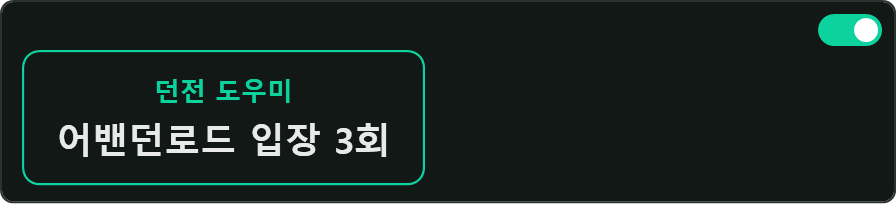
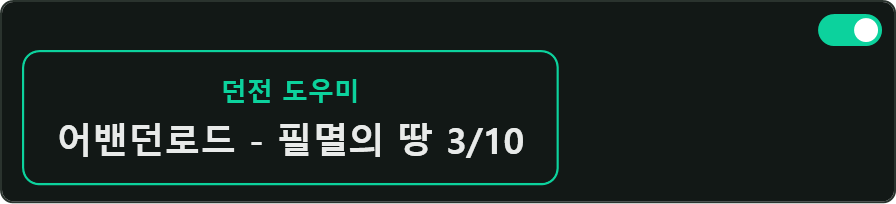
docs: 실제 동작과 다르던 도움말 5종 교정
- 웨이브 종료·반사 패턴·저효율은 팝업이 아니라 소리 알림 — 트리거와 소리 칩으로 표현
- 어밴던 입장 횟수: 실제 창 문구 '어밴던로드 - 필멸의 땅 3/10' 형식으로
- 갈망하는 즐거움: '갈망하는 즐거움 2/20' 형식으로
- 본문도 실제 동작(소리/N·최대 표기, 트리거 문구) 기준으로 수정

Changed region(s): [[0.2812, 0.2353, 0.625, 0.9118], [0.1562, 0.3824, 0.4062, 0.5294]]

diff --git a/Services/Diagnostics/HelpShotRenderer.cs b/Services/Diagnostics/HelpShotRenderer.cs
@@ -181,11 +181,13 @@ namespace TWChatOverlay.Services
             Save(outDir, "exp_cum_on.png", PanelToggle(true,
                 RealExpAlert("경험치 150억 누적 달성")));
 
-            // ── 저효율 알림 (실제 창) ──
+            // ── 저효율 알림 (소리 알림) ──
             Save(outDir, "exp_loweff_off.png", PanelToggle(false,
-                DimLine("(효율이 떨어져도 알림 없음)")));
+                Line(SystemCol, ("경험치가 [1200000] 상승했습니다.", SystemCol)),
+                DimLine("(기준치 미만이어도 조용함)")));
             Save(outDir, "exp_loweff_on.png", PanelToggle(true,
-                RealExpAlert("저효율: 최근 획득이 기준치 미만입니다")));
+                Line(SystemCol, ("경험치가 [1200000] 상승했습니다.", SystemCol)),
+                Chip("♪ 기준치 미만 — 알림 소리 재생")));
 
             // ── 아이템 획득 알림 (실제 창) ──
             Save(outDir, "item_drop_off.png", PanelToggle(false,
@@ -204,21 +206,27 @@ namespace TWChatOverlay.Services
             Save(outDir, "boss_alert_3min.png", Panel("3분 전", RealBossToast("아칸", "3분 전")));
             Save(outDir, "boss_alert_spawn.png", Panel("5초 전", RealBossToast("아칸", "5초 전")));
 
-            // ── 던전 도우미 알림들 (실제 창) ──
-            Save(outDir, "dungeon_wave_off.png", PanelToggle(false, DimLine("(웨이브가 끝나도 알림 없음)")));
+            // ── 던전 도우미 알림들 ──
+            // 웨이브 종료·반사 패턴은 소리 알림, 입장 횟수는 실제 '던전 도우미' 창(N/최대)
+            Save(outDir, "dungeon_wave_off.png", PanelToggle(false,
+                Line(SystemCol, ("몬스터가 남아있으면 다음 웨이브로 넘어가지 않습니다.", SystemCol)),
+                DimLine("(알림 없음)")));
             Save(outDir, "dungeon_wave_on.png", PanelToggle(true,
-                RealDungeonAlert("웨이브 종료")));
-            Save(outDir, "dungeon_reflect_off.png", PanelToggle(false, DimLine("(반사 패턴 알림 없음)")));
+                Line(SystemCol, ("몬스터가 남아있으면 다음 웨이브로 넘어가지 않습니다.", SystemCol)),
+                Chip("♪ 웨이브 종료 알림 소리 재생")));
+            Save(outDir, "dungeon_reflect_off.png", PanelToggle(false,
+                DimLine("(반사 패턴이 시작돼도 조용함)")));
             Save(outDir, "dungeon_reflect_on.png", PanelToggle(true,
-                RealDungeonAlert("2사도 반사 패턴!")));
+                DimLine("심연의 제2사도의 반사 패턴 대사를 감지하면"),
+                Chip("♪ 반사 패턴 알림 소리 재생")));
             Save(outDir, "dungeon_abandon_count_off.png", PanelToggle(false, DimLine("(입장해도 알림 없음)")));
             Save(outDir, "dungeon_abandon_count_on.png", PanelToggle(true,
-                RealDungeonAlert("어밴던로드 입장 3회")));
+                RealDungeonAlert("어밴던로드 - 필멸의 땅 3/10")));
             Save(outDir, "dungeon_abandon_gold_off.png", PanelToggle(false, DimLine("(통계 창 표시 안 함)")));
             Save(outDir, "dungeon_abandon_gold_on.png", PanelToggle(true, RealAbandonSummary()));
             Save(outDir, "dungeon_craving_count_off.png", PanelToggle(false, DimLine("(입장해도 알림 없음)")));
             Save(outDir, "dungeon_craving_count_on.png", PanelToggle(true,
-                RealDungeonAlert("갈망하는 즐거움 입장 2회")));
+                RealDungeonAlert("갈망하는 즐거움 2/20")));
         }
 
         // ===== 조립 헬퍼 =====

diff --git a/Services/Data/HelpTopics.cs b/Services/Data/HelpTopics.cs
@@ -197,8 +197,9 @@ namespace TWChatOverlay.Services
 
             ["exp.loweff"] = (
                 "저효율 알림",
-                "경험치 획득 효율이 기준치보다 낮아지면 알림을 띄웁니다.\n" +
-                "버프가 꺼졌거나 사냥 효율이 떨어졌을 때 빨리 알아차릴 수 있습니다.",
+                "획득 경험치가 기준치(만 단위)보다 낮으면 알림 소리를 울립니다.\n" +
+                "버프가 꺼졌거나 사냥 효율이 떨어졌을 때 빨리 알아차릴 수 있습니다.\n" +
+                "소리는 3초에 한 번으로 제한됩니다.",
                 new[] { "exp_loweff_off.png", "exp_loweff_on.png" }),
 
             ["exp.loweff_threshold"] = (
@@ -215,13 +216,13 @@ namespace TWChatOverlay.Services
 
             ["dungeon.wave_end"] = (
                 "웨이브 종료 알림",
-                "룬 경험치·테시스 코어에서 웨이브가 끝나면 알림을 띄웁니다.",
+                "룬 경험치·테시스 코어에서 웨이브 종료 안내가 나오면 알림 소리를 울립니다.",
                 new[] { "dungeon_wave_off.png", "dungeon_wave_on.png" }),
 
             ["dungeon.abyss_reflect"] = (
                 "반사 패턴 알림",
-                "어비스에서 반사 패턴이 시작되면 알림을 띄워\n" +
-                "공격을 멈출 타이밍을 알려줍니다.",
+                "어비스에서 심연의 제2사도가 반사 패턴 대사를 하면 알림 소리를 울려\n" +
+                "공격을 멈출 타이밍을 알려줍니다. (트리거 대사는 채팅창에 표시되지 않습니다)",
                 new[] { "dungeon_reflect_off.png", "dungeon_reflect_on.png" }),
 
             ["dungeon.etos_direction"] = (
@@ -238,7 +239,8 @@ namespace TWChatOverlay.Services
 
             ["dungeon.abandon_count"] = (
                 "어밴던로드 입장 횟수",
-                "어밴던로드 입장을 감지해 입장 횟수를 세고 알림 창으로 보여줍니다.\n" +
+                "어밴던로드 도전 횟수 안내를 감지해 지역별 횟수를\n" +
+                "'던전 도우미' 창(예: 어밴던로드 - 필멸의 땅 3/10)으로 보여줍니다.\n" +
                 "알림 창 폰트 크기와 지속 시간은 아래에서 조절합니다.",
                 new[] { "dungeon_abandon_count_off.png", "dungeon_abandon_count_on.png" }),
 
@@ -250,7 +252,8 @@ namespace TWChatOverlay.Services
 
             ["dungeon.craving_count"] = (
                 "갈망하는 즐거움 입장 횟수",
-                "갈망하는 즐거움 입장을 감지해 입장 횟수를 알림 창으로 보여줍니다.",
+                "남은 에너지 안내를 감지해 사용 횟수를\n" +
+                "'던전 도우미' 창(예: 갈망하는 즐거움 2/20)으로 보여줍니다.",
                 new[] { "dungeon_craving_count_off.png", "dungeon_craving_count_on.png" }),
 
             // ===== 아이템 알림 =====
